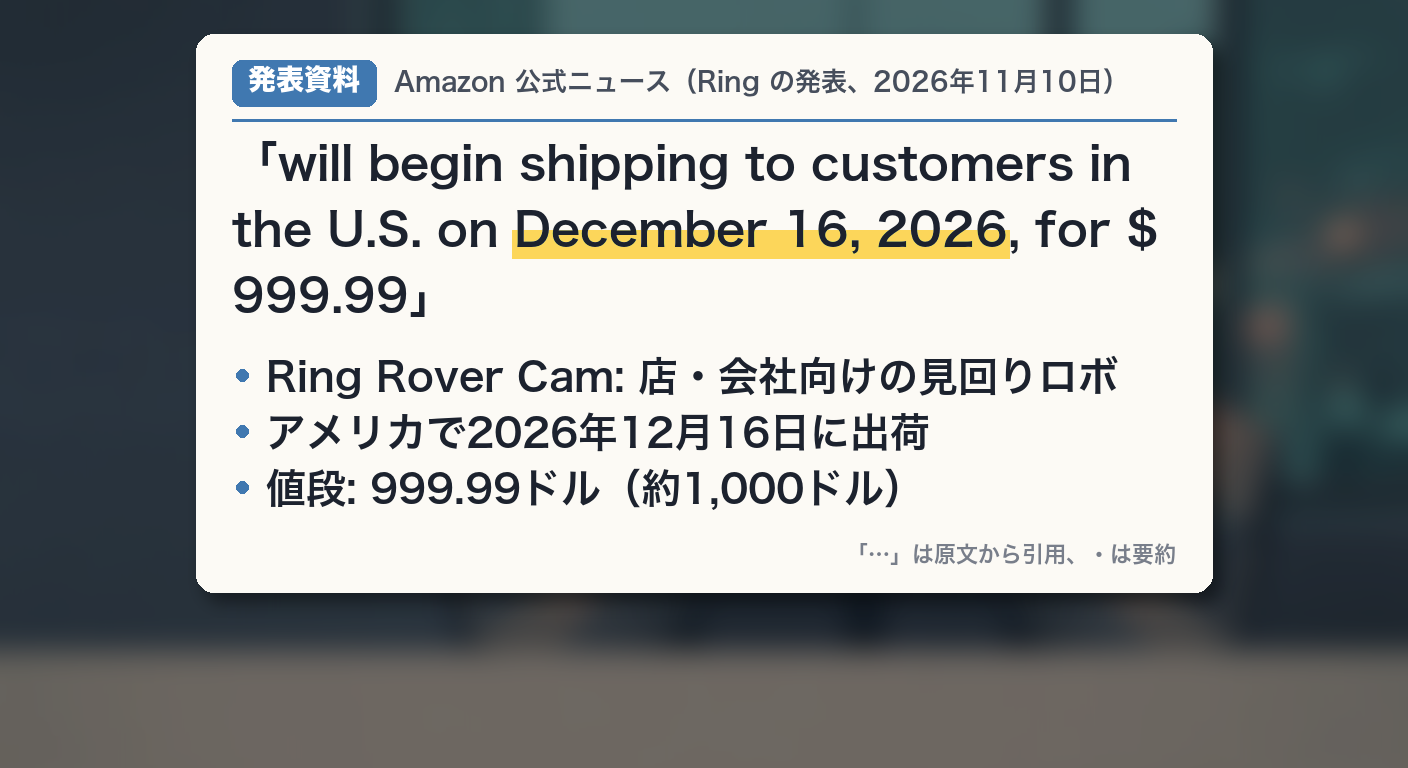
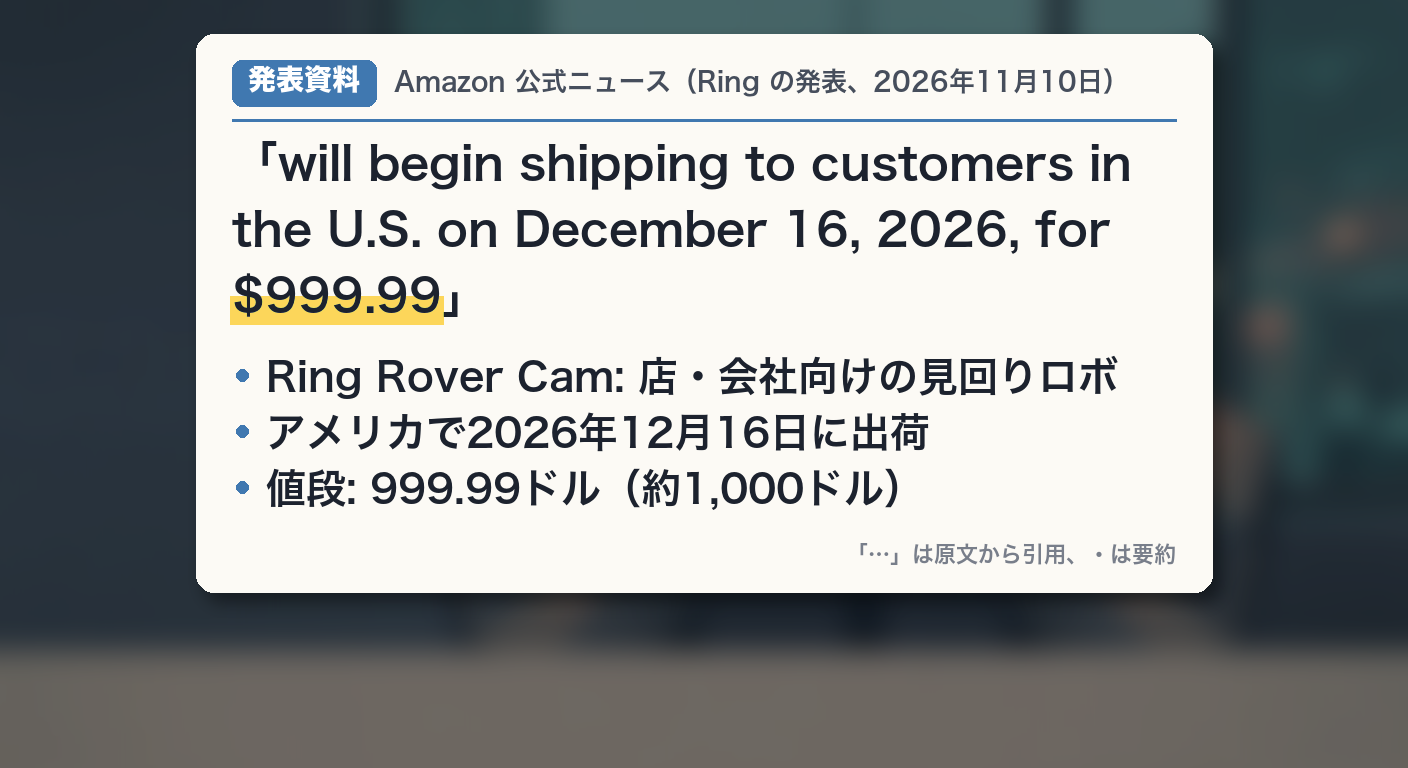
kl056: 画像レビュー反映（S07/S09/S11/Shorts5）、カード描画の数字折り返し修正、写真不使用の記録
TTS生成の途中（lines の t0/dur は未確定）。

Changed region(s): [[0.3438, 0.2812, 0.7188, 0.3438], [0.1562, 0.3438, 0.3438, 0.4375], [0.7812, 0.2812, 0.8438, 0.3125]]

diff --git a/kl_dialogue.py b/kl_dialogue.py
@@ -1924,7 +1924,8 @@ def _wrap_chars(text: str, font, max_w: int) -> list:
     except Exception:  # janome が無い環境
         good = set()
     good |= {i + 1 for i, ch in enumerate(text) if ch in "、。，．）」』・ "}
-    alnum = lambda c: c.isascii() and (c.isalnum() or c in ".-%")
+    # "$" "," も英数字の仲間にする（"$|999.99" "3,|500円" と数字の途中で切れた。kl056、2026-11-13）
+    alnum = lambda c: c.isascii() and (c.isalnum() or c in ".-%$,")
     # 形態素解析が英単語の途中に切れ目を付けることがある（"cod|e"）。英数字どうしの間は切れ目にしない
     good = {b for b in good if not (alnum(text[b - 1]) and alnum(text[b]))}
     # カタカナ語の途中も切れ目にしない（janome が「ド|ローン」と切ることがある。kl052）

diff --git a/script_prep/kl056.md b/script_prep/kl056.md
@@ -150,3 +150,6 @@
 
 ## 選定（STEP 5.6、編集長ケビン 2026-11-13）
 選定: ミア案(prep1)を土台に prep8 の「アマゾンの」「米国で」を移した案。「アマゾンの見回りロボ、約1,000ドルで来月米国へ。店や会社にも？（11月時点）」（40字以内版。43字版は「小さな店や会社にも？」）。サムネ見出し「夜の店を\nロボが見回る」、冒頭台詞は現行のまま。次点: prep8、サムネ別案「カメラが\n見に行く」。公開が12月にずれたら「12月16日に米国で」「（12月時点）」に直し、S05行1・S12の「来月」も録り直す。
+
+## 写真の判断（2026-11-13、進行ダニエル）
+Amazon 公式ニュースの記事内画像は、記事のフッターの規約（Conditions of Use）が個人・非営利の利用に限っており、メーカー公式のプレス向け配布素材でもない（Press Center・Ring のプレスページに Drone／Rover の素材なし）。kl-new.md STEP 2 (7) の条件を満たさないため取り込まない（レオ報告）。`photo_plan` の「今の代わり」（挿絵・資料カード・まとめカード）で進める。
